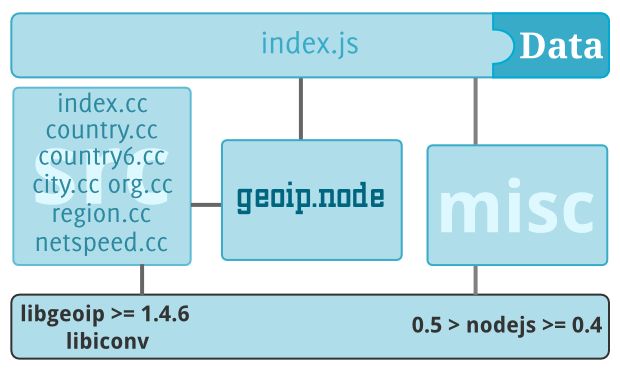
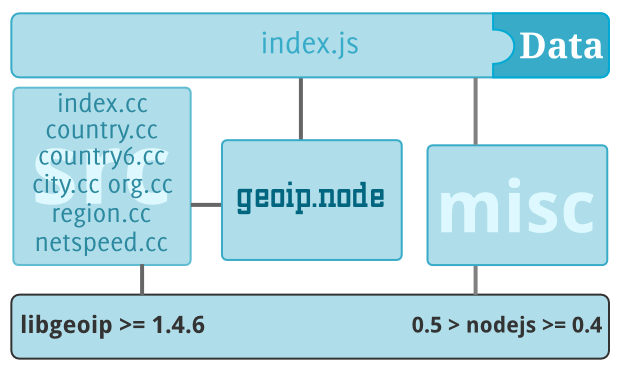
use internal function _GeoIP_iso_8859_1_utf8 to handle encoding

Changed region(s): [[0.0306, 0.7984, 0.3371, 0.9462]]

diff --git a/src/city.cc b/src/city.cc
@@ -37,9 +37,9 @@ void geoip::City::Init(Handle<Object> target)
 Handle<Value> geoip::City::New(const Arguments& args)
 {
   HandleScope scope;
+
   City *c = new City();
 
-  cd = iconv_open("utf-8", "ISO-8859-1");
   String::Utf8Value file_str(args[0]->ToString());
   const char * file_cstr = ToCString(file_str);
 
@@ -69,8 +69,6 @@ Handle<Value> geoip::City::New(const Arguments& args)
 Handle<Value> geoip::City::lookupSync(const Arguments &args) {
   HandleScope scope;
 
-  char outputbuff[1024];
-
   Local<String> host_str = args[0]->ToString();
   Local<Object> data = Object::New();
   char host_cstr[host_str->Length()];
@@ -97,16 +95,15 @@ Handle<Value> geoip::City::lookupSync(const Arguments &args) {
   }
 
   if (record->country_name != NULL) {
-    icv(record->country_name, outputbuff, sizeof(outputbuff));
-    data->Set(String::NewSymbol("country_name"), String::New(outputbuff));
+    data->Set(String::NewSymbol("country_name"), String::New(record->country_name));
   }
 
   if (record->region != NULL ) {
     data->Set(String::NewSymbol("region"), String::New(record->region));
   }
+
   if (record->city != NULL) {
-    icv(record->city, outputbuff, sizeof(outputbuff));
-    data->Set(String::NewSymbol("city"), String::New(outputbuff));
+    data->Set(String::NewSymbol("city"), String::New(_GeoIP_iso_8859_1__utf8(record->city)));
   }
 
   if (record->postal_code != NULL) {
@@ -181,8 +178,6 @@ int geoip::City::EIO_AfterCity(eio_req *req)
 {
   HandleScope scope;
 
-  char outputbuff[1024];
-
   city_baton_t *baton = static_cast<city_baton_t *>(req->data);
   ev_unref(EV_DEFAULT_UC);
   baton->c->Unref();
@@ -202,8 +197,7 @@ int geoip::City::EIO_AfterCity(eio_req *req)
     }
 
     if (baton->record->country_name != NULL) {
-      icv(baton->record->country_name, outputbuff, sizeof(outputbuff)); 
-      data->Set(String::NewSymbol("country_name"), String::New(outputbuff));
+      data->Set(String::NewSymbol("country_name"), String::New(baton->record->country_name));
     }
 
     if (baton->record->region != NULL ) {
@@ -211,8 +205,7 @@ int geoip::City::EIO_AfterCity(eio_req *req)
     }
 
     if (baton->record->city != NULL) {
-      icv(baton->record->city, outputbuff, sizeof(outputbuff)); 
-      data->Set(String::NewSymbol("city"), String::New(outputbuff));
+      data->Set(String::NewSymbol("city"), String::New(_GeoIP_iso_8859_1__utf8(baton->record->city)));
     }                                                                       
 
     if (baton->record->postal_code != NULL) {

diff --git a/src/country6.cc b/src/country6.cc
@@ -38,8 +38,6 @@ Handle<Value> geoip::Country6::New(const Arguments& args)
 {
   HandleScope scope;
 
-  cd = iconv_open("utf-8", "ISO-8859-1"); 
-
   Country6 *c = new Country6();
 
   String::Utf8Value file_str(args[0]->ToString());
@@ -96,8 +94,6 @@ Handle<Value> geoip::Country::lookupSync(const Arguments &args) {
 Handle<Value> geoip::Country6::lookupSync(const Arguments &args) {
   HandleScope scope;
 
-  char outputbuff[1024];   
-
   Country6 * c = ObjectWrap::Unwrap<Country6>(args.This());
 
   // Check if database is country ipv6 edition
@@ -119,8 +115,7 @@ Handle<Value> geoip::Country6::lookupSync(const Arguments &args) {
     if (country_id == 0) {
       return scope.Close(Null());
     } else {
-      icv(const_cast<char*>(GeoIP_country_name[country_id]), outputbuff, sizeof(outputbuff)); 
-      data->Set(String::NewSymbol("country_name"), String::New(outputbuff));  
+      data->Set(String::NewSymbol("country_name"), String::New(GeoIP_country_name[country_id]));  
       data->Set(String::NewSymbol("country_code"), String::New(GeoIP_country_code[country_id]));
       data->Set(String::NewSymbol("country_code3"), String::New(GeoIP_country_code3[country_id]));
       data->Set(String::NewSymbol("continent_code"), String::New(GeoIP_country_continent[country_id]));
@@ -222,8 +217,6 @@ int geoip::Country6::EIO_AfterCountry(eio_req *req)
 {
   HandleScope scope;
 
-  char outputbuff[1024];  
-
   country6_baton_t *baton = static_cast<country6_baton_t *>(req->data);
   ev_unref(EV_DEFAULT_UC);
   baton->c->Unref();
@@ -234,7 +227,6 @@ int geoip::Country6::EIO_AfterCountry(eio_req *req)
     argv[1] = Null();
   } else {
     Local<Object> data = Object::New();
-    icv(const_cast<char*>(GeoIP_country_name[baton->country_id]), outputbuff, sizeof(outputbuff)); 
     data->Set(String::NewSymbol("country_name"), String::New(GeoIP_country_name[baton->country_id]));    
     data->Set(String::NewSymbol("country_code"), String::New(GeoIP_country_code[baton->country_id]));
     data->Set(String::NewSymbol("country_code3"), String::New(GeoIP_country_code3[baton->country_id]));

diff --git a/src/country.cc b/src/country.cc
@@ -38,8 +38,6 @@ Handle<Value> geoip::Country::New(const Arguments& args)
 {
   HandleScope scope;
 
-  cd = iconv_open("utf-8", "ISO-8859-1");
-
   Country *c = new Country();
 
   String::Utf8Value file_str(args[0]->ToString());
@@ -67,8 +65,6 @@ Handle<Value> geoip::Country::New(const Arguments& args)
 Handle<Value> geoip::Country::lookupSync(const Arguments &args) {
   HandleScope scope;
 
-  char outputbuff[1024]; 
-
   Country * c = ObjectWrap::Unwrap<Country>(args.This());
 
   Local<String> host_str = args[0]->ToString();
@@ -85,8 +81,7 @@ Handle<Value> geoip::Country::lookupSync(const Arguments &args) {
     if (country_id == 0) {
       return scope.Close(Null());
     } else {
-      icv(const_cast<char*>(GeoIP_country_name[country_id]), outputbuff, sizeof(outputbuff));
-      data->Set(String::NewSymbol("country_name"), String::New(outputbuff));
+      data->Set(String::NewSymbol("country_name"), String::New(_GeoIP_iso_8859_1__utf8(GeoIP_country_name[country_id])));
       data->Set(String::NewSymbol("country_code"), String::New(GeoIP_country_code[country_id]));
       data->Set(String::NewSymbol("country_code3"), String::New(GeoIP_country_code3[country_id]));
       data->Set(String::NewSymbol("continent_code"), String::New(GeoIP_country_continent[country_id]));
@@ -139,8 +134,6 @@ int geoip::Country::EIO_AfterCountry(eio_req *req)
 {
   HandleScope scope;
 
-  char outputbuff[1024];  
-
   country_baton_t *baton = static_cast<country_baton_t *>(req->data);
   ev_unref(EV_DEFAULT_UC);
   baton->c->Unref();
@@ -151,7 +144,6 @@ int geoip::Country::EIO_AfterCountry(eio_req *req)
     argv[1] = Null();
   } else {
     Local<Object> data = Object::New();
-    icv(const_cast<char*>(GeoIP_country_name[baton->country_id]), outputbuff, sizeof(outputbuff)); 
     data->Set(String::NewSymbol("country_name"), String::New(GeoIP_country_name[baton->country_id]));
     data->Set(String::NewSymbol("country_code"), String::New(GeoIP_country_code[baton->country_id]));
     data->Set(String::NewSymbol("country_code3"), String::New(GeoIP_country_code3[baton->country_id]));

diff --git a/src/org.cc b/src/org.cc
@@ -39,8 +39,6 @@ Handle<Value> geoip::Org::New(const Arguments& args)
 {
   HandleScope scope;
 
-  cd = iconv_open("utf-8", "ISO-8859-1");
-
   Org *o = new Org();
 
   String::Utf8Value file_str(args[0]->ToString());
@@ -73,8 +71,6 @@ Handle<Value> geoip::Org::New(const Arguments& args)
 Handle<Value> geoip::Org::lookupSync(const Arguments &args) {
   HandleScope scope;
 
-  char outputbuff[1024];
-
   Local<String> host_str = args[0]->ToString();
   Local<Value> data;
   char host_cstr[host_str->Length()];
@@ -91,8 +87,7 @@ Handle<Value> geoip::Org::lookupSync(const Arguments &args) {
     return scope.Close(Null());
   }
 
-  icv(org, outputbuff, sizeof(outputbuff)); 
-  data = String::New(outputbuff);
+  data = String::New(_GeoIP_iso_8859_1__utf8(org));
   return scope.Close(data);
 }
 
@@ -137,8 +132,6 @@ int geoip::Org::EIO_AfterOrg(eio_req *req)
 {
   HandleScope scope;
 
-  char outputbuff[1024]; 
-
   org_baton_t *baton = static_cast<org_baton_t *>(req->data);
   ev_unref(EV_DEFAULT_UC);
   baton->o->Unref();
@@ -149,8 +142,7 @@ int geoip::Org::EIO_AfterOrg(eio_req *req)
     argv[0] = Exception::Error(String::New("Data not found"));
     argv[1] = Null();
   } else {
-    icv(baton->org, outputbuff, sizeof(outputbuff)); 
-    Local<String> data = String::New(outputbuff);
+    Local<String> data = String::New(_GeoIP_iso_8859_1__utf8(baton->org));
 
     argv[0] = Null();
     argv[1] = data;

diff --git a/src/node_geoip.h b/src/node_geoip.h
@@ -146,14 +146,14 @@ extern "C" GEOIP_API unsigned long GeoIP_addr_to_num(const char *addr);
 extern "C" GEOIP_API char *        GeoIP_num_to_addr(unsigned long ipnum);
 
 /* Internal function -- convert iso to utf8; return a malloced utf8 string. */
-char * _GeoIP_iso_8859_1__utf8(const char * iso);
+extern "C" char * _GeoIP_iso_8859_1__utf8(const char * iso);
 
 /* Cleans up memory used to hold file name paths. Returns 1 if successful; otherwise 0. 
  * */
 extern "C" GEOIP_API int GeoIP_cleanup(void);
 
 /* Returns the library version in use. Helpful if your loading dynamically. */
-extern "C" GEOIP_API const char * GeoIP_lib_version(void);                             
+//extern "C" GEOIP_API const char * GeoIP_lib_version(void); // requried libgeoip >= 1.4.7                            
 ////////////////////////////////////////////////////////////////////////////////
 //////////////////////////////// GeoIP City ////////////////////////////////////
 ////////////////////////////////////////////////////////////////////////////////

diff --git a/src/global.h b/src/global.h
@@ -7,22 +7,6 @@
 #define NODE_GEOIP_GLOBAL_H
 
 #include <v8.h>
-#include <iconv.h>
-
-static iconv_t cd;
-
-#ifndef ICONV_SRC_CONST
-#define ICONV_SRC_CONST
-#endif
-
-#define icv(a,b,blen) do { \
-  ICONV_SRC_CONST char *in = a; \
-  char *out = b; \
-  size_t inlen = strlen(a); \
-  size_t outlen = blen; \
-  if(iconv(cd, &in, &inlen, &out, &outlen) == -1) b[0] = '\0'; \
-  else *out = '\0'; \
-} while(0)
 
 #define REQ_FUN_ARG(I, VAR)                                             \
   if ((args.Length() + 1) <= (I) || !args[I]->IsFunction())             \

diff --git a/README.md b/README.md
@@ -28,12 +28,6 @@ If not, you can build for yourself:
     make
     sudo make install
 
-####Gnu libconv library
-
-For characters encoding convertion, geoip depends on gnu libiconv library.
-
-Most Linux distribution and Mac OSX ships with a free implementation of gnu libiconv, there are also a windows port can be find [here](http://gnuwin32.sourceforge.net/packages/libiconv.htm)
-
 
 ##Data
 
